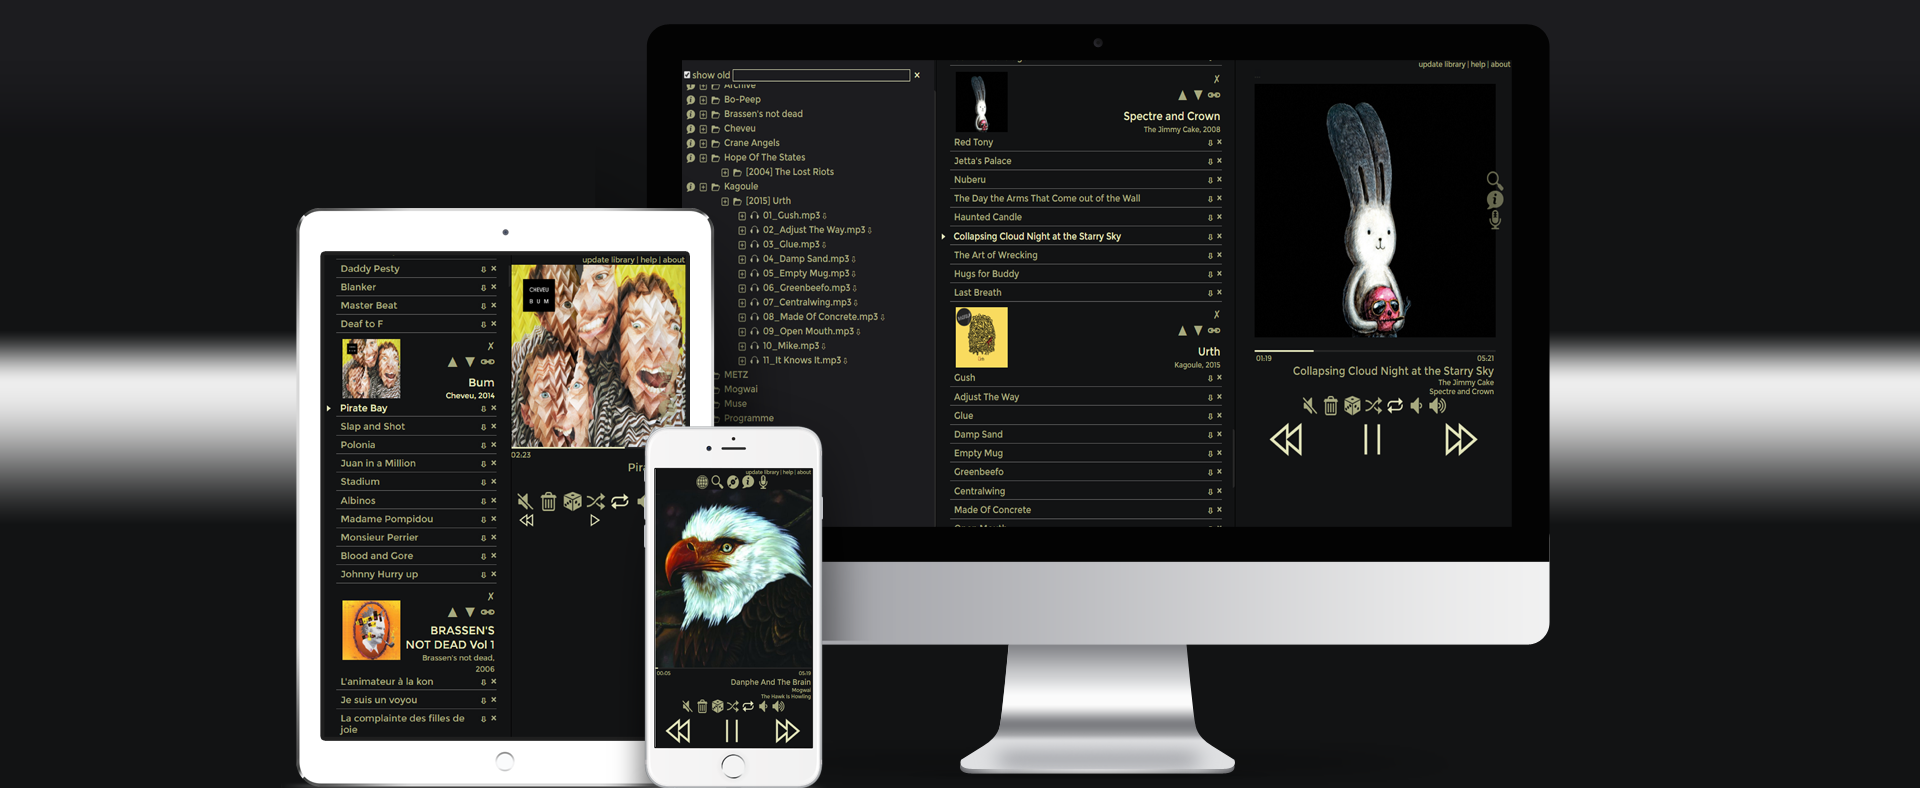
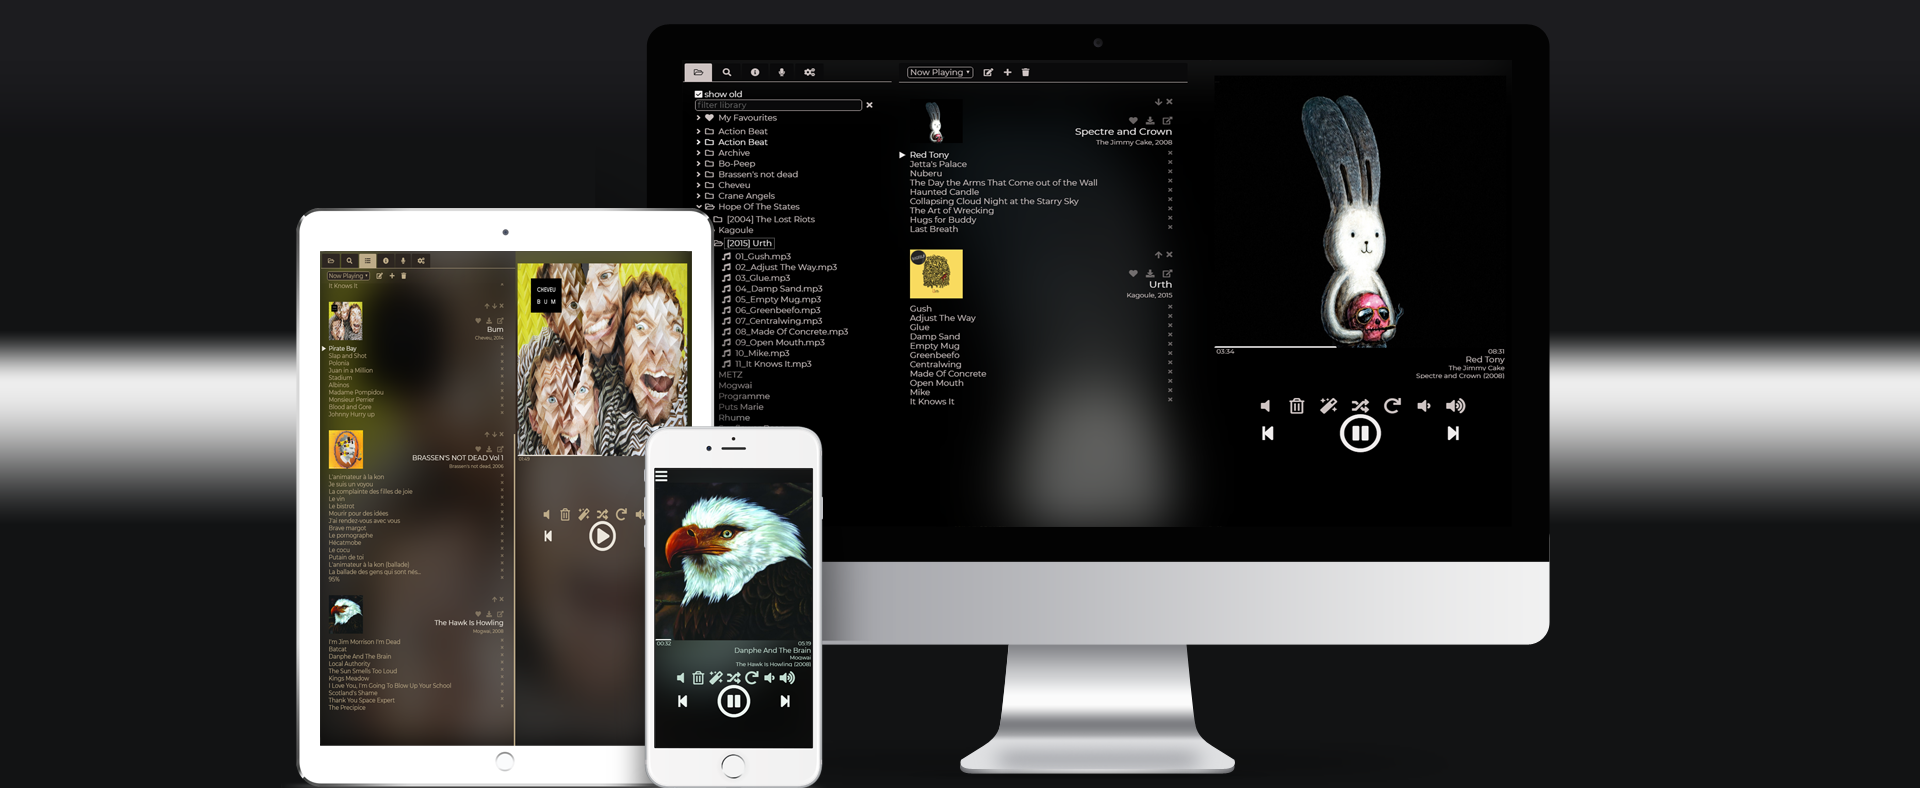
Fix #78: website and readme update for 2.0 release

Changed region(s): [[0.1562, 0.0609, 0.7812, 0.9442], [0.5625, 0.3046, 0.625, 0.4264], [0.75, 0.0609, 0.7812, 0.0914]]

diff --git a/doc/index.html b/doc/index.html
@@ -71,7 +71,7 @@
 			<h1 class="wow fadeInDown"><strong><span class="color">musicco</span></strong></h1>
 			<p class="wow fadeInDown">a web player for your music library</p>
 			<a target="_blank" href="https://github.com/micser/musicco/releases" class="btn btn-default btn-lg page-scroll wow fadeInUp" data-wow-delay="200ms">download</a>
-			<a target="_blank" href="https://www.musicco.org/demo" class="btn btn-default btn-lg page-scroll wow fadeInUp" data-wow-delay="200ms">live demo</a> 
+			<a target="_blank" href="https://www.musicco.app/demo" class="btn btn-default btn-lg page-scroll wow fadeInUp" data-wow-delay="200ms">live demo</a> 
 		</div>
 	</div>
 </header>
@@ -95,12 +95,12 @@
 				<p>It's not revolutionary, it just solves a few very specific problems I had...</p>
 				<div class="space"></div>
 				<h4>So why did you make musicco?</h4>
-				<p>I was tired of syncing music onto devices, only to realise it takes forever or I forgot the particular album I wanted to listen to at home that day. Commercial music streaming services are all fine, but what that obscure band I listen to that nobody knows about, what about the music I spent ages ripping from CDs at high bitrate? Oh, and don't get me started on id3 tags, my library is properly organised in Artist &gt; Album folders, I don't need to worry about wrongly-tagged files or players that don't sort tags properly.</p>
+				<p>I was tired of syncing music onto devices, only to realise it takes forever or I forgot the particular album I wanted to listen to at home that day. Commercial music streaming services are all fine, but what about that obscure album I bought from a band at a show that I listen to andnobody knows about? What about the music I spent ages ripping from CDs at high bitrate? Oh, and don't get me started on id3 tags, my library is properly organised in Artist &gt; Album folders, I don't need to worry about wrongly-tagged files or players that don't sort tags properly.</p>
 				<div class="space"></div>
 				<h4>How does it work?</h4>
-				<p>The concept behind musicco is nothing new. In fact, it is largely inspired from <a target="_blank" href="https://github.com/henrik242/musicbrowser">musicbrowser</a>, another cool, lightweight music streaming solution.</p>
+				<p>The concept behind musicco is nothing new. In fact, it is largely inspired by <a target="_blank" href="https://github.com/henrik242/musicbrowser">musicbrowser</a>, another cool, lightweight music streaming solution.</p>
 				<p>It is also technically based on <a target="_blank" href="http://encode-explorer.siineiolekala.net/">encode explorer</a>, a simple and efficient PHP file browser.</p>
-				<p>The rest of the work was just putting a UI on top of <a target="_blank" href="http://jplayer.org/">jplayer</a> to create playlists and integrate cover art, artist and lyrics information (from <a href="http://coverartarchive.org/">Cover Art Archive</a>, <a target="_blank" href="https://www.wikipedia.org">Wikipedia</a> and <a href="http://www.chartlyrics.com/">ChartLyrics</a>).</p>
+				<p>The rest of the work was just putting a UI on top of a HTML5 audio player to create playlists and integrate cover art, artist and lyrics information (from <a href="http://coverartarchive.org/">Cover Art Archive</a>, <a target="_blank" href="https://www.wikipedia.org">Wikipedia</a> and <a href="http://www.chartlyrics.com/">ChartLyrics</a>).</p>
 			</div>
 		</div>
 		<div class="section-title text-center wow fadeInDown">
@@ -298,7 +298,7 @@
 
 <div id="footer">
 	<div class="container">
-			<p><a href="https://www.musicco.org" rel="nofollow">musicco</a> - Design by <a target="_blank" href="http://www.templategarden.com" rel="nofollow">TemplateGarden</a></p>
+			<p><a href="https://www.musicco.app" rel="nofollow">musicco</a> - Design by <a target="_blank" href="http://www.templategarden.com" rel="nofollow">TemplateGarden</a></p>
 	</div>
 </div>
 
@@ -318,7 +318,7 @@
 					<div class="modal-body"> 
 						<h2>Web Music Magic!</h2>
 						<img class="img-responsive img-centered" src="img/features/player.png" alt="">
-						<div>musicco uses JPlayer, a free, cross-platform music player that does not require flash to play mp3s.</div>
+						<div>musicco uses HTML5 audio and does not require flash to play mp3s.</div>
 						<div>Create awesome playlists you can really play from any device with musicco's completely responsive UI!</div>
 						<button type="button" class="btn btn-primary" data-dismiss="modal"><i class="fa fa-times"></i> close</button>
 					</div>
@@ -517,6 +517,7 @@
 							<li>p: show/hide playlist</li>
 							<li>i: show/hide Artist Information</li>
 							<li>l: show/hide lyrics</li>
+							<li>g: show Settings</li>
 							<li>Esc: hide all panels</li>
 						</ul>
 						<h4>Ninja</h4>
@@ -529,6 +530,12 @@
 							<li>j/k: highlight previous/next item</li>
 							<li>o: open current selection</li>
 							<li>a: queue current selection</li>
+						</ul>
+						<h4>Touch</h4>
+						<ul>
+							<li>Swipe left/right to go to the next album</li>
+							<li>Swipe up/down to change volume</li>
+							<li>Long press support and more!</li>
 						</ul>
 						<button type="button" class="btn btn-primary" data-dismiss="modal"><i class="fa fa-times"></i> close</button>
 					</div>
@@ -552,7 +559,7 @@
 					<div class="modal-body"> 
 						<h2>Authentication and Sharing</h2>
 						<img class="img-responsive img-centered" src="img/features/authentication.png" alt="">
-						<div>You can (and probably should) require a login for musicco. There are two levels of users: guests and administrators. The main difference is that guest accounts do not have the right to update the music library or download individual tracks. When a login is required, your playlist is saved across sessions for your user only.</div>
+						<div>You can (and probably should) require a login for musicco. There are two levels of users: guests and administrators. The main difference is that guest accounts do not have the right to update the music library or download individual tracks. When a login is required, your playlists are saved across sessions for your user only.</div>
 						<div>Want to share a permalink to an album? You can do that by clicking the link icon in the playlist. You will get a link to the album that you can open in a guest session.</div>
 						<button type="button" class="btn btn-primary" data-dismiss="modal"><i class="fa fa-times"></i> close</button>
 					</div>
@@ -579,14 +586,14 @@
 						<h3>Requirements</h3>
 						<ul>
 							<li>A web server with php and sqlite support and access to your music library</li>
-							<li>A web browser that supports html audio or flash</li>
+							<li>A web browser that supports html audio</li>
 							<li>There are no OS-specific requirements, and it runs great on a 500MHz CPU with 32MB of RAM (like a <a target="_blank" href="http://dns323.kood.org/">DNS-323</a> for example)</li>
 						</ul>
 						<h3>Installation</h3>
 						<ol>
 							<li>Extract the distribution archive into the root of your webserver</li>
 							<li>Place your music in the music folder or create a symbolic link to the root of your music directory to replace the music folder</li>
-							<li>Open up a browser and click on "Update Library". It may take a few minutes for this operation to finish if you have several thousand files.</li>
+							<li>Open up a browser, complete the setup wizard and click on "Update Library". It may take a few minutes for this operation to finish if you have several thousand files.</li>
 						</ol>
 						<button type="button" class="btn btn-primary" data-dismiss="modal"><i class="fa fa-times"></i> close</button>
 					</div>
@@ -610,12 +617,12 @@
 					<div class="modal-body"> 
 						<h2>Configuration</h2>
 						<img class="img-responsive img-centered" src="img/features/configuration.png" alt="">
-						<p>You can modify the configuration of musicco by editing index.php and following the instructions in the file itself.</p>
+						<p>You can modify the main settings the first time you access the app.</p>
+						<p>You can modify the configuration of musicco by editing index.php and config.php. and following the instructions in the file itself.</p>
 						<p>You can currently configure:</p>
 						<ul>
 							<li>the name of the webapp</li>
 							<li>the default language (English and French come built-in, but you can add your own)</li>
-							<li>the skin used</li>
 							<li>the character set for reading file names</li>
 							<li>the name of the folder containing your music collection</li>
 							<li>whether or not to require a login to use the app</li>

diff --git a/theme/musicco.css b/theme/musicco.css
@@ -861,7 +861,7 @@
 	}
 
 	.logo-about {
-		width: 100%;
+		max-width: 50%;
 	}
 
 	.landing {

diff --git a/index.php b/index.php
@@ -23,8 +23,8 @@ $_CONFIG['dbVersion'] = "2";
 
 // Additional application information. This is used for sending as part of the user-agent string
 // as part of fair use of external services APIs.
-// Default: $_CONFIG['appInfo'] = "(//musicco.org)";
-$_CONFIG['appInfo'] = "(//musicco.org)";
+// Default: $_CONFIG['appInfo'] = "(//musicco.app)";
+$_CONFIG['appInfo'] = "(//musicco.app)";
 
 // Choose a language. See bel ow in the language section for options.
 // Default: $_CONFIG['lang'] = "en";
@@ -4398,7 +4398,7 @@ function builddb() {
 		$helpString.="<div><i class='far fa-play-circle'></i>/<i class='far fa-pause-circle'></i>/<i class='far fa-image'></i>: play random album from playlist</div>";
 		$helpString.="<div><br/></div>";
 		$helpString.="<div class='yellow bold'>Find Out More at ";
-		$helpString.="<a tabindex='-1' class='yellow' target='_blank' href='https://www.musicco.org/#features'>musicco.org</a></div>";
+		$helpString.="<a tabindex='-1' class='yellow' target='_blank' href='https://www.musicco.app/#features'>musicco.app</a></div>";
 		
 		
 		$helpString.="</div>";
@@ -4407,8 +4407,8 @@ function builddb() {
 	 
 		function getAbout() {
 		$aboutString="<div id='aboutBox' autofocus>";
-			$aboutString.="<div class='bold'><a tabindex='-1' target='_blank' href='//musicco.org'>".Musicco::logo("logo-about")."</a></div>";
-			$aboutString.="<div class='bold big'><a tabindex='-1' target='_blank' href='//musicco.org'>musicco</a></div>";
+			$aboutString.="<div class='bold'><a tabindex='-1' target='_blank' href='//musicco.app'>".Musicco::logo("logo-about")."</a></div>";
+			$aboutString.="<div class='bold big'><a tabindex='-1' target='_blank' href='//musicco.app'>musicco</a></div>";
 			$aboutString.="<div class='bold'>A web based player for your music collection</div>";
 			$aboutString.="<div><br/></div>";
 			$aboutString.="<div>musicco is a light-weight, web-based streaming music player for your local library</div>";
@@ -4439,7 +4439,7 @@ function builddb() {
 			$aboutString.="<div class='bold big'>Release History</div>";
 			$aboutString.="<ul>";
 				$aboutString.="<div class='bold yellow'>2.0 (unreleased)</div>";
-				$aboutString.="<li>use native html audio instead of jplayer / jplayerPlaylist</li>";
+				$aboutString.="<li>Use native html audio instead of jplayer / jplayerPlaylist</li>";
 				$aboutString.="<li>Refreshed UI</li>";
 				$aboutString.="<li>Theme selector and dynamic theme</li>";
 				$aboutString.="<li>Added support for multiple playlists per user</li>";
@@ -4448,6 +4448,7 @@ function builddb() {
 				$aboutString.="<li>Added support for rich notifications on Android using Media Session API</li>";
 				$aboutString.="<li>Added play/pause and skip actions to desktop notification</li>";
 				$aboutString.="<li>Added support for quickly adding an album without scanning the entire library</li>";
+				$aboutString.="<li>Save your favourite albums</li>";
 				$aboutString.="<li>Handle accent-insensitive search</li>";
 				$aboutString.="<li>Improved webapp manifest so you can add musicco to your Android home screen</li>";
 				$aboutString.="<li>Fixed many other things!</li>";

diff --git a/README.md b/README.md
@@ -2,7 +2,7 @@
 ![musicco](/doc/img/header-bg.png?raw=true "musicco")
 musicco is a web player for your music library Host it on a NAS and start streaming your music from any browser.  
 This is especially great on low-spec NAS that don't have enough power to host Squeezebox, Subsonic or an ITunes Server.  
-Check out https://www.musicco.org for more information or try the demo at https://www.musicco.org/demo.
+Check out https://www.musicco.app for more information or try the demo at https://www.musicco.app/demo.
 
 <a href="https://twitter.com/musiccoapp">
   <img src="http://jpillora.com/github-twitter-button/img/tweet.png" alt="Follow @musiccoapp" Follow @musiccoapp"></img>
@@ -43,6 +43,21 @@ Check out https://www.musicco.org for more information or try the demo at https:
 
 
 # Changelog
+
+## v2.0.0
+  Use native html audio instead of jplayer / jplayerPlaylist
+  Refreshed UI
+  Theme selector and dynamic theme
+  Added support for multiple playlists per user
+  Added support for marking albums and tracks as favourites
+  Improved controls for touchcreen browsers
+  Added support for rich notifications on Android using Media Session API
+  Added play/pause and skip actions to desktop notification
+  Added support for quickly adding an album without scanning the entire library
+  Save your favourite albums
+  Handle accent-insensitive search
+  Improved webapp manifest so you can add musicco to your Android home screen
+  Fixed many other things
 
 ## v1.3.5
   Bug fixes centered around track seeking and resuming current play position, added Uncover button to header in square mode.
